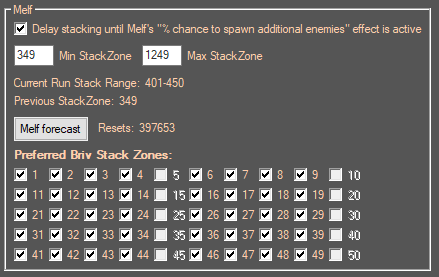
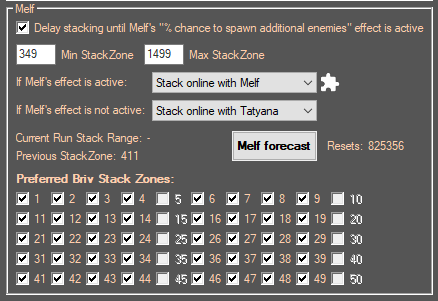
Updated README.md

diff --git a/IC_BrivGemFarm_HybridTurboStacking_Extra/README.md b/IC_BrivGemFarm_HybridTurboStacking_Extra/README.md
@@ -43,6 +43,9 @@ The first effect is by far the most desireable one for online stacking.
 The effects are chosen depending on the current lifetime number of resets, which is used by this addon
 by enabling multiple stack zones instead of one and wait until **Melf**'s first effect is active.
 
+**Recommend effect: up to 30 additional spawns (≈ 3500 item levels at Golden Epic + 40% feat "Rushed Plans" + 80% feat "Melf's Collectors Boots" 
+"Extra Supplements" specialization).**
+
 <img alt="Tatyana" height="48" src="Images/Tatyana_portrait.png" width="48"/>
 
 >**Level 80 - Find a Feast**  
@@ -51,6 +54,8 @@ she briefly runs ahead off the right side of the screen. She returns 2 seconds l
 After she returns, the 15 seconds counter starts again from 0 seconds.
 
 **Tatyana** is a slower alternative to Melf, but is guaranteed to work every time as long as she stays behind Briv.
+
+**Recommend effect: up to 90 additional spawns (≈ 3900 item levels at Shiny Epic + 40% feat "Raid the Pantry").**
 
 <img alt="Warden" height="48" src="Images/Warden_portrait.png" width="48"/>
 
@@ -73,6 +78,9 @@ to ForceOfflineGemThreshold and/or a value higher than 1 to ForceOfflineRunThres
 Try to place Briv in the front-most column so enemies can start to attack faster, and Tatyana behind him.
 Place Melf not adjacent to any champion to reduce incoming effect calculations.
 
+> ⚠ Diana needs to be saved in the W formation, or her speed bonus won't work properly after online stacking (bug).  
+> She is best placed in the middle of a column, where she will knock forward enemies towards Briv.
+
 3. Setup and save specializations in Modron in-game, so that they don't pop up during leveling.  
 The trick is to save a specific formation that contains all the champions that are leveled up during the run
 and making sure that it is the formation loaded in the Modron.  
@@ -93,6 +101,8 @@ Beats the zone the script want to stack on before switching to W.
 This is faster than having to fall back one zone then going forward one zone to complete the level after stacking,
 especially if the transition between the two isn't a quick transition (**QT**).
 
+> If somehow the zone has not been completed, the script will move back one zone after stacking before resuming.
+
 ___
 
 <img alt="Advanced settings" src="Images/Settings/settings_Warden.png"/>
@@ -106,6 +116,15 @@ to deal enough damage to kill enemies in lower zones.
 
 ___
 
+<img alt="Advanced settings" src="Images/Settings/settings_heal.png"/>
+
+During online stacking, heals Briv to max health whenever his health drops below the threshold.
+This is done by levelling him in x10 mode (Shift+F5).  
+This is helpful to be able to online stack a bit later in the run, so you have a higher chance of stacking with Melf's increased spawn effect.
+>If the LevelUp addon is active, healing stops if there is not enough gold to buy next upgrade (next/1x/x10/x100).
+
+___
+
 <img alt="Advanced settings" src="Images/Settings/settings_multirun.png"/>
 
 Enabling this will allow stacking every two or more runs.
@@ -114,8 +133,8 @@ Make sure that "Multirun target stacks" is set high enough for at least two full
 Enabling "Delaying offline" will make the script do additional runs until the stacks
 have fallen under the target for a single run before going offline (will use the setting in BrivGemFarm tab).
 
-> ⚠ Currently won't work unless stacking happens one or two zones before reset.
-For now, Melf settings will be ignored while the option is active.
+> ⚠ Stacks prediction needs to be turned on for this to work.  
+> Turn off **Auto Detect** in the **Briv Gem Farm** tab, as well as **IgnoreBrivHaste** in the **BrivGF Advanced** tab.
 
 ___
 
@@ -129,6 +148,9 @@ or Briv being killed before gaining enough stacks. For offline, the BrivGemFarm 
 Tatyana/Melf won't work optimally or even work at all in boss zones or in zones with barriers.
 Stacking in a boss zone is disabled by default, and you can manually disable other zones.
 
+If Melf is active, you can choose to either have him alone or with Tatyana and Warden - they need to be saved in the W formation.  
+If Melf is not active, you can either have Tatyana or do an offline stack as a backup.
+
 Click on "Melf forecast" to open a window showing which Melf effects you will get for the next 1000 resets.
 The first "+chance to spawn additional enemies" effect is highlighted in green for each reset count, then the remaining others,
 if they happen to be in the range specified in settings.
@@ -136,8 +158,8 @@ The whole row will be highlighted in red if the first speed effect is not availa
 
 <img alt="Advanced settings" src="Images/Melf_forecast.png"/>
 
-If stacking with Melf isn't possible within the range, stacking will happen in the first
-zone after the BrivGemFarm setting (use Tatyana if the range is not large enough for 100% success rate).
+>If stacking with Melf isn't possible within the range, stacking will happen in the first
+zone after the **Farm SB stacks AFTER this zone** setting in the **BrivGemFarm** tab (use Tatyana if the range is not wide enough to reach a 100% success rate).
 
 ___
 
